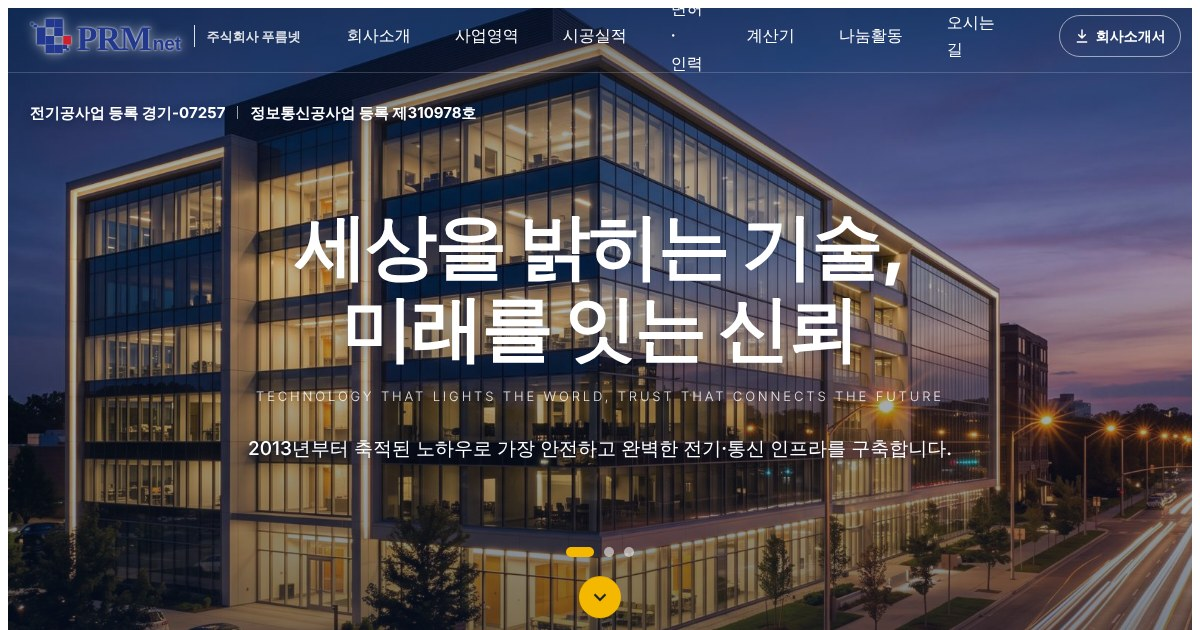
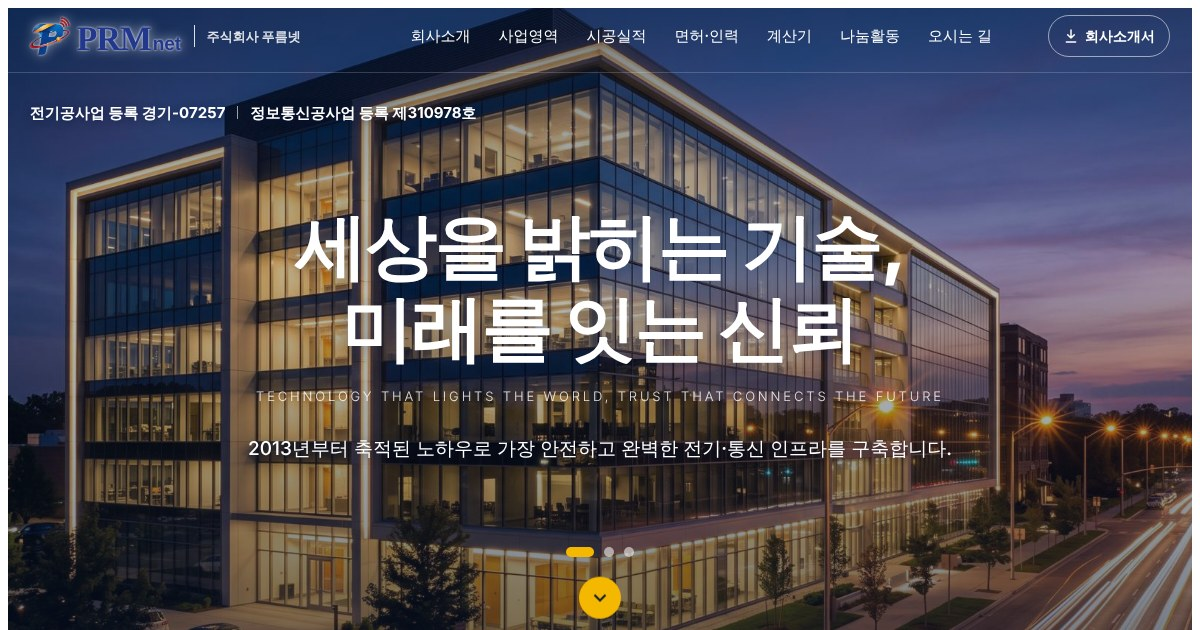
로고 심볼을 새 P 로고로 교체
Claude-Session: https://claude.ai/code/session_01AxY4uq7VJtuUeAKJc7Ywbf

diff --git a/index.html b/index.html
@@ -644,7 +644,7 @@ footer b{color:#fff;font-size:15px;margin-bottom:4px}
 <body>
 <header class="hd" id="hd">
   <div class="wrap">
-    <a class="logo" href="#home"><svg class="lgsvg" viewBox="0 0 178 44" role="img" aria-label="PRMnet 주식회사 푸름넷"><g class="lgm"><rect x="18" y="2" width="10" height="10"/><rect x="28" y="2" width="10" height="10"/><rect x="8" y="12" width="10" height="10"/><rect x="28" y="12" width="10" height="10"/><rect x="8" y="22" width="10" height="10"/><rect x="18" y="22" width="10" height="10"/><rect x="18" y="32" width="10" height="10"/><rect x="28" y="32" width="10" height="10"/><rect x="1" y="6.5" width="3" height="3"/><rect x="4" y="9" width="4" height="3"/><rect x="38" y="32" width="5" height="5"/><rect x="42" y="36" width="3" height="3"/></g><rect class="lgr" x="38.5" y="22" width="9" height="10"/><text x="54" y="38" class="lgt1" textLength="86" lengthAdjust="spacingAndGlyphs">PRM</text><text x="142" y="38" class="lgt2" textLength="33" lengthAdjust="spacingAndGlyphs">net</text></svg><span class="lgname">주식회사 푸름넷</span></a>
+    <a class="logo" href="#home"><svg class="lgsvg" viewBox="0 0 178 44" role="img" aria-label="PRMnet 주식회사 푸름넷"><image href="images/symbol.png" x="0" y="0" width="46" height="44"/><text x="54" y="38" class="lgt1" textLength="86" lengthAdjust="spacingAndGlyphs">PRM</text><text x="142" y="38" class="lgt2" textLength="33" lengthAdjust="spacingAndGlyphs">net</text></svg><span class="lgname">주식회사 푸름넷</span></a>
     <ul class="gnb">
       <li><a href="#about" data-g="about">회사소개</a><ul><li><a href="#about">인사말</a></li><li><a href="#status">회사현황</a></li></ul></li>
       <li><a href="#elec" data-g="biz">사업영역</a><ul><li><a href="#elec">전기공사</a></li><li><a href="#ict">정보통신공사</a></li><li><a href="#maint">시설 유지보수</a></li><li><a href="#mfg">통신부자재 제조</a></li></ul></li>
